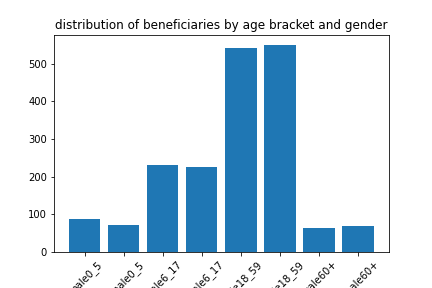
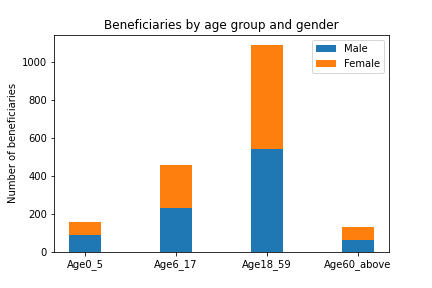
more on descriptive analysis with recommended charts Izzy

diff --git a/cci_nepal/analysis/wp2_data_scoping/database_sample/nepal_flood_landslide_descriptive.py b/cci_nepal/analysis/wp2_data_scoping/database_sample/nepal_flood_landslide_descriptive.py
@@ -54,9 +54,7 @@ def clean_df_columns(df):
 clean_df_columns(data_df)
 
 # %%
-data_df.columns[20:40]
-
-# %%
+# renaming age group columns
 data_df.rename(
     columns={
         "span styledisplaynonerow-  malespan": "male0_5",
@@ -76,10 +74,41 @@ data_df.rename(
 data_df = data_df.replace("[^a-zA-Z0-9\-\s]+", "", regex=True)
 
 # %%
-percent_missing = data_df.isnull().sum() * 100 / len(db)
+percent_missing = data_df.isnull().sum() * 100 / len(data_df)
 missing_value_df = pd.DataFrame(
-    {"column_name": db.columns, "percent_missing": percent_missing}
+    {"column_name": data_df.columns, "percent_missing": percent_missing}
 )
+
+
+# %%
+missing_value_df.sort_values("percent_missing", inplace=True)
+
+missing_value_df["percent_missing"].plot(kind="bar")
+plt.xticks([])
+
+
+# %%
+plt.figure(figsize=(15, 10))
+missing_value_df["percent_missing"].tail(45).plot(kind="bar")
+plt.title("columns with missing values > 82%")
+plt.tight_layout()
+plt.savefig(
+    f"{project_dir}/outputs/figures/nepal_descriptive/missing_values_greater80.png"
+)
+plt.show()
+
+# %%
+plt.figure(figsize=(20, 15))
+missing_value_df["percent_missing"].plot(kind="hist")
+plt.title("Distribution of columns with missing values")
+plt.tight_layout()
+plt.savefig(
+    f"{project_dir}/outputs/figures/nepal_descriptive/missing_values_greater80b.png"
+)
+plt.show()
+
+# %%
+len(missing_value_df[missing_value_df["percent_missing"] > 82].column_name.unique())
 
 # %%
 # remove columns which all have null values
@@ -89,7 +118,8 @@ data_df.dropna(axis=1, how="all", inplace=True)
 data_df.shape
 
 # %%
-data_df.columns[22:30]
+# number of columns that were completely null
+146 - 129
 
 # %%
 # replace the null values for the age groups for onward processing. The assumption here is that missing values
@@ -98,20 +128,67 @@ for col in data_df.columns[22:30]:
     data_df[col] = data_df[col].fillna(0)
 
 # %%
+
+# %%
 beneficiaries_by_age_group = {}
 for col in data_df.columns[22:30]:
     beneficiaries_by_age_group[col] = sum(data_df[col])
 
 # %%
-plt.bar(beneficiaries_by_age_group.keys(), beneficiaries_by_age_group.values())
+print(beneficiaries_by_age_group)
+
+# %%
+labels = ["Age0_5", "Age6_17", "Age18_59", "Age60_above"]
+men_means = [87.0, 232, 541, 63]
+women_means = [72, 226, 550, 70]
+men_std = [2, 3, 4, 1, 2]
+women_std = [3, 5, 2, 3, 3]
+width = 0.35  # the width of the bars: can also be len(x) sequence
+
+fig, ax = plt.subplots()
+
+ax.bar(labels, men_means, width, label="Male")
+ax.bar(labels, women_means, width, bottom=men_means, label="Female")
+
+ax.set_ylabel("Number of beneficiaries")
+ax.set_title("Beneficiaries by age group and gender")
+ax.legend()
+plt.savefig(
+    f"{project_dir}/outputs/figures/nepal_descriptive/beneficiaries_by_age_groups.png"
+)
+
+plt.show()
+
+# %%
+plt.bar(
+    beneficiaries_by_age_group.keys(),
+    beneficiaries_by_age_group.values(),
+    color=["cyan", "green", "cyan", "green", "cyan", "green", "cyan", "green"],
+)
 plt.xticks(rotation=45)
 plt.title("distribution of beneficiaries by age bracket and gender")
+plt.tight_layout()
 plt.savefig(
     f"{project_dir}/outputs/figures/nepal_descriptive/beneficiaries_by_age_groups.png"
 )
 plt.show()
 
 # %%
+beneficiaries_by_age_group
+
+# %%
+age_60 = (70 + 63) / (541 + 550 + 87 + 72 + 232 + 226 + 63 + 70)
+logging.info(age_60)
+
+# %%
+age_under5 = (87 + 72) / (541 + 550 + 87 + 72 + 232 + 226 + 63 + 70)
+logging.info(age_under5)
+
+# %%
+# drop columns with more than 82% null values.
+for col in missing_value_df[missing_value_df["percent_missing"] > 82].column_name:
+    if col in data_df.columns:
+        data_df.drop(col, axis=1, inplace=True)
 
 # %% [markdown]
 # ## Which communication means adopted by nepal RC proved more effective for the affected communities?
@@ -132,12 +209,6 @@ data_df["How were you notified about the relief delivery date"] = data_df[
 communication_modes = data_df[
     "How were you notified about the relief delivery date"
 ].unique()
-
-# %%
-data_df["How were you notified about the relief delivery date"].unique()
-
-# %%
-data_df["How were you notified about the relief delivery date"].isnull().sum()
 
 # %%
 communication_modes_frequency = {}
@@ -166,13 +237,104 @@ plt.show()
 
 
 # %%
-plt.bar(
-    communication_modes_frequency.keys(),
-    communication_modes_frequency.values(),
-    color=["green", "gray", "blue", "black", "red"],
+
+# %%
+# check for duplicates
+data_df.duplicated().sum()
+
+# %%
+# skewness of data
+data_df.skew(axis=0, skipna=True)
+
+# %%
+right_skew = (42 / 50) * 100
+right_skew
+
+# %%
+left_skew = (4 / 50) * 100
+left_skew
+
+# %%
+data_df["Are you satisfied with the relief distribution process"].isnull().sum()
+
+# %%
+data_df["Are you satisfied with the relief distribution process"].value_counts()
+
+# %% [markdown]
+# ## What accounts for the fact that some districts are more represented than others?
+
+# %%
+district_counts = data_df["District name"].value_counts()
+
+# %%
+district_counts
+
+# %%
+district_counts[:14]
+
+# %%
+names = [
+    "Lamjung",
+    "Achham",
+    "Kailali",
+    "Sindhupalchok",
+    "Myagdi",
+    "Dhading",
+    "Dolakha",
+    "Sankhuwasabha",
+    "Gulmi",
+    "Jajarkot",
+    "Bajura",
+    "Baglung",
+    "Darchula",
+    "Arghakhanchi",
+    "8 others",
+]
+counts = [50, 37, 32, 28, 28, 26, 25, 18, 16, 15, 11, 9, 7, 7, 14]
+
+
+# %%
+
+fig2, ax2 = plt.subplots()
+ax2.pie(counts, labels=names, autopct="%1.1f%%", shadow=True, startangle=90)
+ax2.axis("equal")  # Equal aspect ratio ensures that pie is drawn as a circle.
+plt.tight_layout()
+plt.savefig(
+    f"{project_dir}/outputs/figures/nepal_descriptive/district_representation.png"
 )
-plt.ylabel("No of people reached")
-plt.xticks(rotation=45)
+plt.title("Representation of districts")
 plt.show()
+
+# %%
+data_df[
+    "Are there any suggestion you want to give to Nepal Red Cross society to improve the relief distribution program in the future Mention if any"
+].unique()
+
+
+# %%
+data_df.columns[20:30]
+
+# %%
+data_df["Why did you choose to receive relief supplies"].value_counts()
+
+# %%
+data_df["Why did you choose to receive relief supplies"].value_counts().sum()
+
+# %%
+data_df["Why did you choose to receive relief supplies"].value_counts().plot(kind="bar")
+plt.figure(figsize=(15, 20))
+plt.tight_layout()
+plt.savefig(
+    f"{project_dir}/outputs/figures/nepal_descriptive/motive_for_receiving_id.png"
+)
+
+# %%
+data_df["Why did you choose to receive relief supplies"].value_counts()
+
+# %%
+(123 + 100) / (123 + 100 + 57 + 27 + 9 + 4 + 3)
+
+# %%
+52 / 146
 
 # %%
